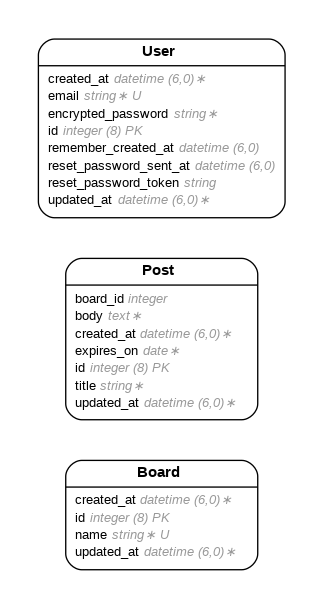
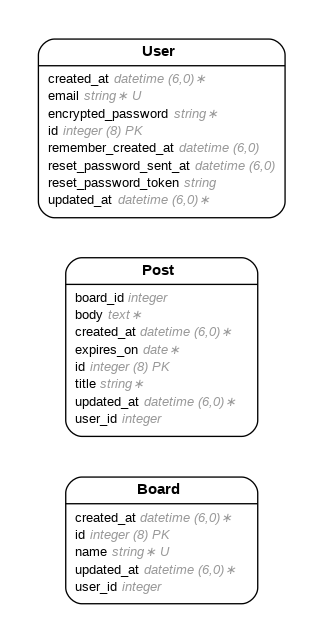
triumph

Changed region(s): [[0.0929, 0.0312, 0.8978, 0.9672]]

diff --git a/db/schema.rb b/db/schema.rb
@@ -10,7 +10,7 @@
 #
 # It's strongly recommended that you check this file into your version control system.
 
-ActiveRecord::Schema[7.1].define(version: 2024_11_19_174102) do
+ActiveRecord::Schema[7.1].define(version: 2024_11_19_180437) do
   # These are extensions that must be enabled in order to support this database
   enable_extension "plpgsql"
 
@@ -18,6 +18,7 @@ ActiveRecord::Schema[7.1].define(version: 2024_11_19_174102) do
     t.string "name"
     t.datetime "created_at", null: false
     t.datetime "updated_at", null: false
+    t.integer "user_id"
   end
 
   create_table "posts", force: :cascade do |t|
@@ -27,6 +28,7 @@ ActiveRecord::Schema[7.1].define(version: 2024_11_19_174102) do
     t.integer "board_id"
     t.datetime "created_at", null: false
     t.datetime "updated_at", null: false
+    t.integer "user_id"
   end
 
   create_table "users", force: :cascade do |t|

diff --git a/app/controllers/boards_controller.rb b/app/controllers/boards_controller.rb
@@ -26,6 +26,7 @@ class BoardsController < ApplicationController
   def create
     the_board = Board.new
     the_board.name = params.fetch("query_name")
+    the_board.user_id = current_user
 
     if the_board.valid?
       the_board.save

diff --git a/app/models/board.rb b/app/models/board.rb
@@ -6,6 +6,7 @@
 #  name       :string
 #  created_at :datetime         not null
 #  updated_at :datetime         not null
+#  user_id    :integer
 #
 class Board < ApplicationRecord
   validates(:name, presence: true, uniqueness: true)

diff --git a/app/models/post.rb b/app/models/post.rb
@@ -9,6 +9,7 @@
 #  created_at :datetime         not null
 #  updated_at :datetime         not null
 #  board_id   :integer
+#  user_id    :integer
 #
 class Post < ApplicationRecord
   validates(:title, presence: true)

diff --git a/db/migrate/20241119180336_add_user_id_to_boards.rb b/db/migrate/20241119180336_add_user_id_to_boards.rb
@@ -1,0 +1,5 @@
+class AddUserIdToBoards < ActiveRecord::Migration[7.1]
+  def change
+    add_column :boards, :user_id, :integer
+  end
+end

diff --git a/db/migrate/20241119180437_add_user_id_to_posts.rb b/db/migrate/20241119180437_add_user_id_to_posts.rb
@@ -1,0 +1,5 @@
+class AddUserIdToPosts < ActiveRecord::Migration[7.1]
+  def change
+    add_column :posts, :user_id, :integer
+  end
+end
